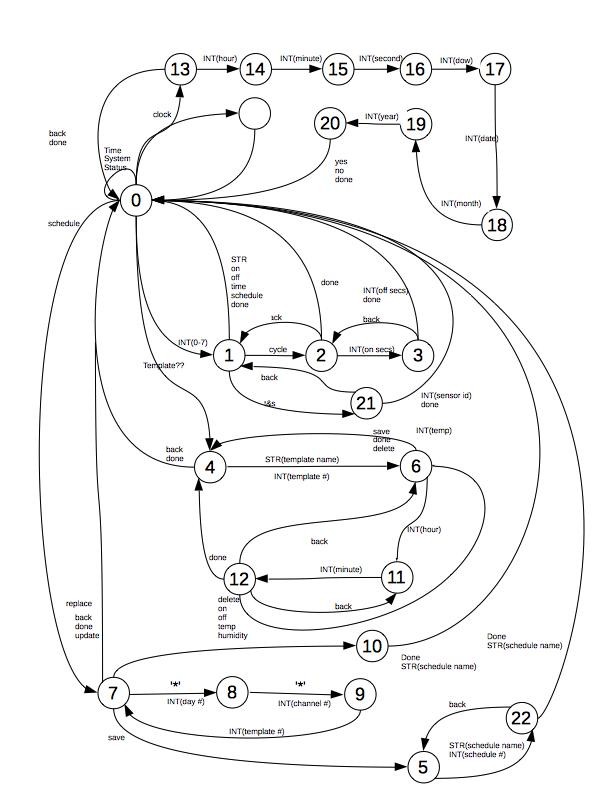
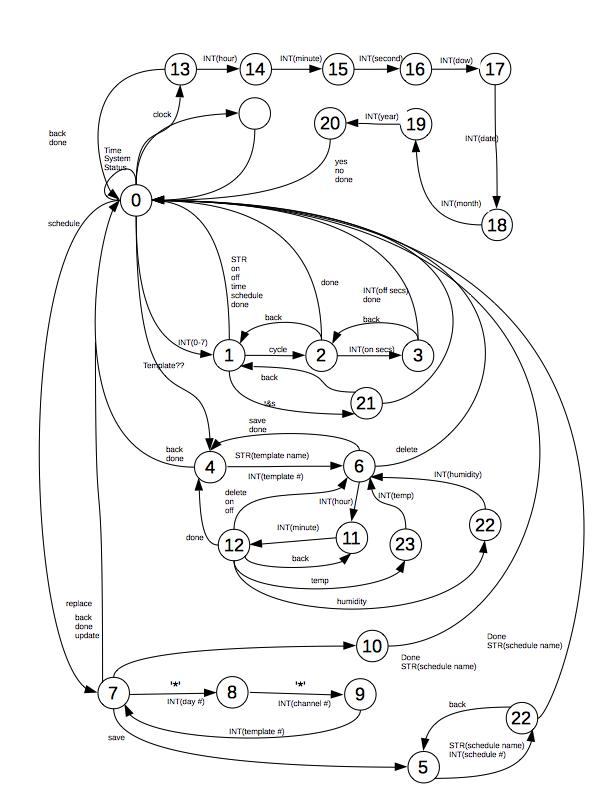
refactoring schedule code

diff --git a/BBB/lib-sources/sd_card.c b/BBB/lib-sources/sd_card.c
@@ -6,6 +6,7 @@
 */
 
 #include <stdio.h>
+#include <errno.h>
 #include <unistd.h>     //sleep
 #include <stdint.h>     //uint_8, uint_16, uint_32, etc.
 #include <ctype.h>      //isalnum, tolower
@@ -19,18 +20,31 @@
 
 
 FILE *sd_open(char *fname,SYS_DAT *cdat){
-    FILE 		*sd;
-    SYS_DAT     dummy;    
+    FILE 			*sd, *sys_file;
+    SYS_DAT     	dummy;
+    _SYS_DAT2 		sys_dat; 
+    char 			sys_file_name[10] = "sys66.dat" ; 
 
     /* see if the file is there */
     sd = fopen(fname,"r+");
     if(sd != NULL){
-        // printf(" system data file <%s> opened\r\n",fname);
+        printf(" system data file <%s> opened\r\n",fname);
         return sd;
+    }
+
+    sys_file = fopen(sys_file_name,"r+");
+    if(sys_file != NULL){
+        printf(" system data file <%s> opened\r\n",fname);
+        // return sys_file;
     }
     /* file does not exist try and create it */
     sd = fopen(fname,"w");
     if(sd == NULL){
+        perror(fname);
+        term1();
+    }
+    sys_file = fopen(sys_file_name,"w");
+    if(sys_file == NULL){
         perror(fname);
         term1();
     }
@@ -40,12 +54,27 @@ FILE *sd_open(char *fname,SYS_DAT *cdat){
     dummy.major_version = _major_version;
     dummy.minor_version = _minor_version;
     dummy.minor_revision = _minor_revision;
+
+    sys_dat.config.major_version = _major_version;
+    sys_dat.config.minor_version = _minor_version;
+    sys_dat.config.minor_revision = _minor_revision;
+    sys_dat.config.channels = _NUMBER_OF_CHANNELS;
+    sys_dat.config.sensors = _NUMBER_OF_SENSORS;
+    sys_dat.config.commands = _CMD_TOKENS;
+    sys_dat.config.states = _CMD_STATES;
+
     if(fwrite(&dummy, 1, sizeof(dummy), sd) != sizeof(dummy)){
         printf("\n*** error initializing system data file\r\n");
         perror(fname);
         term1();
     }
     fclose(sd);
+    if(fwrite(&sys_dat, 1, sizeof(sys_dat), sys_dat) != sizeof(sys_dat)){
+        printf("\n*** error initializing system data file\r\n");
+        perror(sys_file_name);
+        term1();
+    }
+    fclose(sys_dat);
     /* set file pointer to start of file */
     sd = fopen(fname,"r+");
     if(sd == NULL){
@@ -55,6 +84,82 @@ FILE *sd_open(char *fname,SYS_DAT *cdat){
     }
     printf(" system data file <%s> created and initialized\r\n",fname);
     // printf(" size of cdat <%i>\r\n",(int)sizeof(*cdat));
+    /***********************************************/
+    sys_file = fopen(fname,"r+");
+    if(sys_file == NULL){
+        printf("\n*** error reopening system data file\r\n");
+        perror(sys_file_name);
+        term1();
+    }
+    printf(" system data file <%s> created and initialized\r\n",sys_file_name);
+
+    /***********************************************/
+
+    return sd;
+}
+
+FILE *sd_open2(char *fname,_SYS_DAT2 *cdat){
+    FILE 			*sys_file;
+
+    /* see if the file is there */
+    sys_file = fopen(fname,"r+");
+    if(sys_file != NULL){
+        printf(" system data file <%s> opened\r\n",fname);
+        return sys_file;
+    }
+    /* file does not exist try and create it */
+    sys_file = fopen(fname,"w");
+    if(sys_file == NULL){
+        perror(fname);
+        term1();
+    }
+    /* write a null record */
+    memset(&dummy, '\0', sizeof(dummy));
+    /* initialize record */
+    dummy.major_version = _major_version;
+    dummy.minor_version = _minor_version;
+    dummy.minor_revision = _minor_revision;
+
+    sys_dat.config.major_version = _major_version;
+    sys_dat.config.minor_version = _minor_version;
+    sys_dat.config.minor_revision = _minor_revision;
+    sys_dat.config.channels = _NUMBER_OF_CHANNELS;
+    sys_dat.config.sensors = _NUMBER_OF_SENSORS;
+    sys_dat.config.commands = _CMD_TOKENS;
+    sys_dat.config.states = _CMD_STATES;
+
+    if(fwrite(&dummy, 1, sizeof(dummy), sd) != sizeof(dummy)){
+        printf("\n*** error initializing system data file\r\n");
+        perror(fname);
+        term1();
+    }
+    fclose(sd);
+    if(fwrite(&sys_dat, 1, sizeof(sys_dat), sys_dat) != sizeof(sys_dat)){
+        printf("\n*** error initializing system data file\r\n");
+        perror(fname);
+        term1();
+    }
+    fclose(sys_dat);
+    /* set file pointer to start of file */
+    sd = fopen(fname,"r+");
+    if(sd == NULL){
+        printf("\n*** error reopening system data file\r\n");
+        perror(fname);
+        term1();
+    }
+    printf(" system data file <%s> created and initialized\r\n",fname);
+    // printf(" size of cdat <%i>\r\n",(int)sizeof(*cdat));
+    /***********************************************/
+    sys_file = fopen(fname,"r+");
+    if(sys_file == NULL){
+        printf("\n*** error reopening system data file\r\n");
+        perror(fname);
+        term1();
+    }
+    printf(" system data file <%s> created and initialized\r\n",fname);
+
+    /***********************************************/
+
     return sd;
 }
 
@@ -74,7 +179,7 @@ void load_system_data(char *fname,SYS_DAT *cdat){
     sd = sd_open(fname,cdat);
 #ifdef _TRACE
     trace(_TRACE_FILE_NAME, "sd_card", 0, NULL, "\nloading system data", 1);
-    printf("  file handle %i\n",sd);
+    printf("  file handle %i\n",(int)sd);
     printf("  size of sys_dat %i\r\n",(int)sizeof(*cdat));
     printf("  read system data\r\n");
 #endif 
@@ -89,4 +194,51 @@ void load_system_data(char *fname,SYS_DAT *cdat){
     }
     fclose(sd);    
     return;
+}
+
+void save_system_data2(char *fname,_SYS_DAT2 *cdat){
+    FILE *system_file;
+    system_file = sd_open(fname,cdat);
+    if(fwrite(cdat, sizeof(*cdat), 1, sd) != 1){
+        perror(fname);
+        term1();
+    }
+    fclose(sd);
+    return;
+}
+void load_system_data2(char *fname,SYS_DAT *cdat){
+    FILE *sd;
+    int     rtn;
+    sd = sd_open(fname,cdat);
+#ifdef _TRACE
+    trace(_TRACE_FILE_NAME, "sd_card", 0, NULL, "\nloading system data", 1);
+    printf("  file handle %i\n",(int)sd);
+    printf("  size of sys_dat %i\r\n",(int)sizeof(*cdat));
+    printf("  read system data\r\n");
+#endif 
+    rtn = fread(cdat, sizeof(*cdat), 1, sd);
+#ifdef _TRACE
+    printf("  fread returns %i\r\n",rtn);
+#endif 
+    if(rtn != 1){
+        printf("\n*** error reading system data\n  fread returned %i\r\n",rtn);
+        perror(fname);
+        term1();
+    }
+    fclose(sd);    
+    return;
+}
+
+int comp_conf(_CONFIG_DAT *conf)){
+
+	if (conf.channels != _NUMBER_OF_CHANNELS
+		return 1;
+    if (conf.sensors != _NUMBER_OF_SENSORS
+    	return 1;
+    if (conf.commands != _CMD_TOKENS
+    	return 1;
+    if (conf.states != _CMD_STATES
+    	return 1;
+
+    return 0;
 }

diff --git a/BBB/lib-sources/cmd_fsm.c b/BBB/lib-sources/cmd_fsm.c
@@ -179,7 +179,7 @@ char    *STR_def[_CMD_STATES] = {
 	/*  3 */    "",
 	/*  4 */    "template name",
 	/*  5 */    "",
-	/*  6 */    "",
+	/*  6 */    "hour",
 	/*  7 */    "",
 	/*  8 */    "",
 	/*  9 */    "",
@@ -205,7 +205,7 @@ int cmd_new_state[_CMD_TOKENS][_CMD_STATES] = {
 	/*  2  humidity */  { 0,  1,  2,  3,  4,  5,  6,  7,  8,  0,  0,  0,  6,  0,  0,  0,  0,  0,  0,  0,  0, 21,  0,  0},
 	/*  3  *        */  { 0,  1,  2,  3,  4,  5,  6,  8,  9,  0,  0,  0, 12,  0,  0,  0,  0,  0,  0,  0,  0, 21,  0,  0},
 	/*  4  tmep     */  { 0,  0,  0,  0,  0,  0,  0,  0,  8,  0,  0,  0,  6,  0,  0,  0,  0,  0,  0,  0,  0, 21,  0,  0},
-	/*  5  schedule */  { 7,  0,  0,  0,  0,  0,  0,  0,  8,  0,  0,  0, 12,  0,  0,  0,  0,  0,  0,  0,  0, 21,  0,  0},
+	/*  5  schedule */  { 7,  0,  0,  0,  0,  0,  7,  0,  8,  0,  0,  0, 12,  0,  0,  0,  0,  0,  0,  0,  0, 21,  0,  0},
 	/*  6  ping     */  { 0,  1,  2,  3,  4,  5,  6,  7,  8,  0,  0,  0, 12,  0,  0,  0,  0,  0,  0,  0,  0, 21,  0,  0},
 	/*  7  clock    */  {13,  1,  2,  3,  4,  5,  6,  7,  8,  9, 10, 11, 12, 13, 14, 15, 16, 17, 18, 19, 20, 21,  0,  0},
 	/*  8  yes      */  { 0,  0,  0,  0,  0,  4,  4,  0,  0,  0,  0,  6, 12,  0,  0,  0,  0,  0,  0,  0,  0, 21,  0,  0},
@@ -867,7 +867,7 @@ int c_19(CMD_FSM_CB *cb)
 	/* build prompt */
 	strcpy(cb->prompt_buffer, "editing schedule template: ");
 	strcat(cb->prompt_buffer, (char *)cb->w_schedule_name);
-	strcat(cb->prompt_buffer, "\r\n  enter time (HH,MM) > ");
+	strcat(cb->prompt_buffer, "\r\n  enter command or time (HH,MM) > ");
 	return 0;
 }
 
@@ -925,7 +925,7 @@ int c_22(CMD_FSM_CB *cb)
 	char            temp[200];
 	/*set the state of the schedule record to on */
 	cb->w_srec_state = 1;       //set working state to on
-	
+
 	if (add_sch_rec(&cb->w_schedule[0], make_key(cb->w_hours, cb->w_minutes), 1)) // add/change record
 		return -1;
 
@@ -934,7 +934,7 @@ int c_22(CMD_FSM_CB *cb)
 	strcat(cb->prompt_buffer, (char *)cb->w_schedule_name);
 	strcat(cb->prompt_buffer, "\r\n");
 	strcat(cb->prompt_buffer, sch2text(cb->w_schedule, temp));
-	strcat(cb->prompt_buffer, "\r\n  enter time (HH,MM) > ");
+	strcat(cb->prompt_buffer, "\r\n  enter command or time (HH,MM) > ");
 	return 0;
 }
 
@@ -952,7 +952,7 @@ int c_23(CMD_FSM_CB *cb)
 	strcat(cb->prompt_buffer, (char *)cb->w_schedule_name);
 	strcat(cb->prompt_buffer, "\r\n");
 	strcat(cb->prompt_buffer, sch2text(cb->w_schedule, temp));
-	strcat(cb->prompt_buffer, "\r\n  enter time (HH,MM) > ");
+	strcat(cb->prompt_buffer, "\r\n  enter command or time (HH,MM) > ");
 	return 0;
 }
 
@@ -969,7 +969,7 @@ int c_24(CMD_FSM_CB *cb)
 	strcat(cb->prompt_buffer, (char *)cb->w_schedule_name);
 	strcat(cb->prompt_buffer, "\r\n");
 	strcat(cb->prompt_buffer, sch2text(cb->w_schedule, temp));
-	strcat(cb->prompt_buffer, "\r\n  enter time (HH,MM) > ");
+	strcat(cb->prompt_buffer, "\r\n  enter command or time (HH,MM) > ");
 	return 0;
 }
 
@@ -1068,7 +1068,7 @@ int c_27(CMD_FSM_CB *cb)
 	strcat(cb->prompt_buffer, (char *)cb->w_schedule_name);
 	strcat(cb->prompt_buffer, "\r\n");
 	strcat(cb->prompt_buffer, sch2text(cb->w_schedule, temp));
-	strcat(cb->prompt_buffer, "\r\n  enter time (HH,MM) > ");
+	strcat(cb->prompt_buffer, "\r\n  enter command or time (HH,MM) > ");
 	return 0;
 }
 

diff --git a/BBB/UI/Pcon.c b/BBB/UI/Pcon.c
@@ -21,11 +21,15 @@
 #include "trace.h"
 #include "ipc.h"
 
+#define _TRACE
+
 /******************************** globals **************************************/
 int				trace_flag;							//control program trace
 // int 			exit_flag = false;					//exit man loop if TRUE
 int 			bbb;								//UART1 file descriptor
 SYS_DAT 		sdat;								//system data structure
+SYS_DAT 		sdat2;								//system data structure
+
 CMD_FSM_CB  	cmd_fsm_cb;							//cmd_fsm control block
 IPC_DAT 		ipc_dat, *ipc_ptr; 					//ipc data
 void			*data = NULL;						//pointer to ipc data
@@ -119,7 +123,7 @@ int main(void) {
 #ifdef _TRACE
 	trace(_TRACE_FILE_NAME, "\nPcon", char_state, NULL, "semaphores id set", trace_flag);
 #endif	
-	/* load data from file on sd card */
+	/* load system data from file  */
 	load_system_data(_SYSTEM_DATA_FILE, &sdat);
 	printf("  Pcon: system data loaded from %s\r\n", _SYSTEM_DATA_FILE);
 	if ((sdat.major_version != _major_version ) | (sdat.minor_version != _minor_version) | (sdat.minor_revision != _minor_revision)) {
@@ -136,6 +140,12 @@ int main(void) {
 		}
 		c = fgetc(stdin);	// get rid of trailing CR
 	}
+	load_system_data2(_SYSTEM_DATA_FILE2, &sdat2);
+	if(comp_conf(&sdat2.config)){
+		printf(" *** current configuration does not match configuation stored in system file\n");
+		term1();
+	}
+
 
 	/* copy system data to shared memory */
 	ipc_sem_lock(semid, &sb);			// wait for a lock on shared memory

diff --git a/BBB/include/typedefs.h b/BBB/include/typedefs.h
@@ -81,6 +81,23 @@ typedef	struct {
 
 } SYS_DAT;
 
+typedef struct {
+    int         major_version;
+    int         minor_version;
+    int         minor_revision;
+    int 		channels;
+    int 		sensors;
+    int 		commands;
+    int 		states;
+} _CONFIG_DAT;
+
+typedef struct {
+	_CONFIG_DAT 	config;							// system configuration	
+  	_S_TAB  		sch2;							// system schedule
+  	CHN_DAT     	c_data[_NUMBER_OF_CHANNELS];	// channel persistent data
+    TMPL_DAT		s_data[_MAX_SCHLIB_SCH];		// schedule template library
+} _SYS_DAT2;
+
 /* cmd_fsm control block */
 typedef struct {
 	int				state;
@@ -116,9 +133,10 @@ typedef struct sembuf SEMBUF;
 /* ipc data - memory mapped */
 typedef	struct {
 	uint32_t    sch[_DAYS_PER_WEEK][_NUMBER_OF_CHANNELS][_SCHEDULE_SIZE];	// system schedule
-  _S_TAB 			sch2;
+  	_S_TAB 			sch2;
 	int			force_update;		// force daemon to update channel
 	CHN_DAT 		c_dat[_NUMBER_OF_CHANNELS];
+
 	struct{
 		int			temp;
 		int			humidity;

diff --git a/BBB/include/shared.h b/BBB/include/shared.h
@@ -5,12 +5,15 @@
 #define _major_version 			7
 #define _minor_version 			0
 #define _minor_revision 		1
+#define _TRACE 					_ON
 
 /* file names */
 #define _FILE_NAME_SIZE 		50
 #define _CGI_DATA_FILE_PREFIX	"/media/TOSHIBA/sensor"			// cgi generated log of sensor data
 #define _CGI_DATA_FILE_SUFIX	".dat"							// cgi generated log of sensor data
 #define _SYSTEM_DATA_FILE		"/home/Pcon-data/sys2.dat"		// system data file
+#define _SYSTEM_DATA_FILE2		"/home/Pcon-data/sys2.dat"		// system data file
+
 #define _IPC_FILE				"/home/Pcon-data/ipc.dat"   	// memory mapped ipc file
 #define _TRACE_FILE_NAME		"/home/Pcon-data/trace.dat" 	// trace file
 
